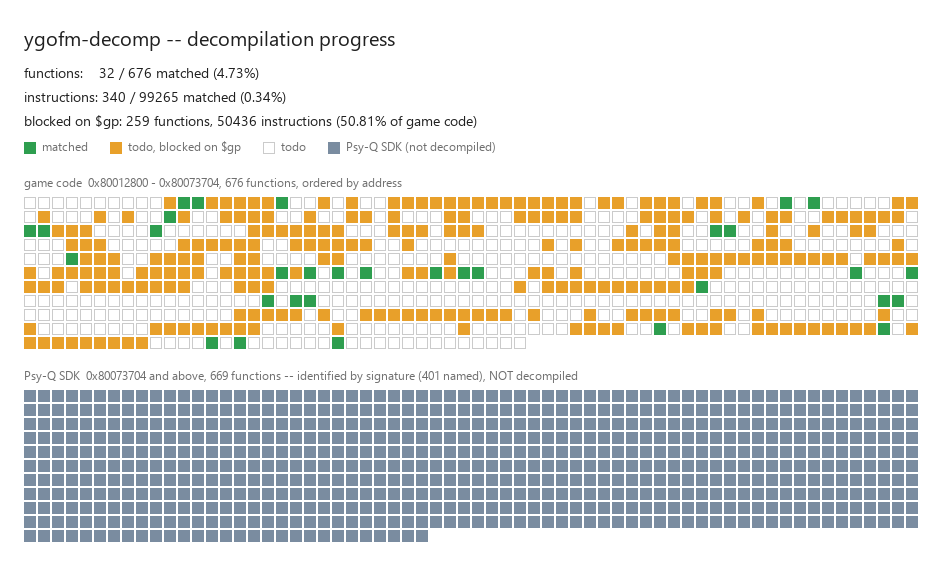
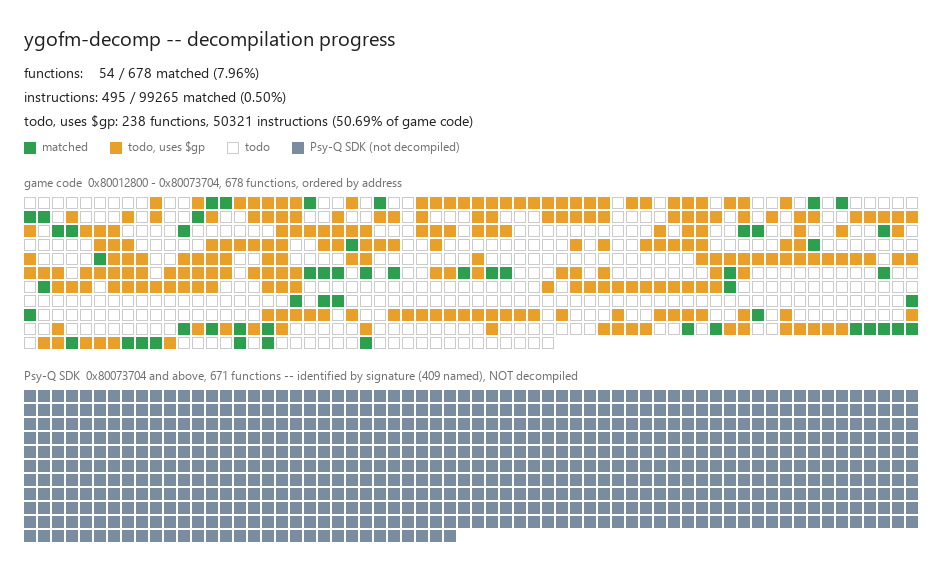
Automate $gp handling: 54 functions from C, still byte-identical
autodecomp rewrites m2c's undeclared saved_reg_gp into a real extern at
gp+offset and tries both assembler -G values, keeping whichever reproduces the
bytes. 54 matched over 436 candidates, 22 needing as_G 8. Executable and full
disc image both still byte-identical; boot from the in-duel state passes.

Also fixes symbol resolution: decompiled C references names the disassembly
never had, since a gp-relative access appears there only as 0x170($gp). Now
reads each object's undefined-symbol table rather than scanning assembly text.

Relabels the progress map's $gp category from 'blocked' to 'uses $gp' -- it
described a constraint that no longer exists.

diff --git a/tools/progress_map.py b/tools/progress_map.py
@@ -6,8 +6,10 @@ instructions, which is the honest measure of how much of the game is done.
 
 Cells are laid out strictly by address, so a given function keeps the same
 cell across runs and two maps can be diffed by eye.  $gp users get their own
-colour: they are not hard, they are blocked until the small-data layout is
-reconstructed, and lumping them in with plain TODO hides that.
+colour because they need extra handling -- the assembler run with -G8, and
+m2c's undeclared `saved_reg_gp` rewritten into a real extern at gp+offset.
+They are no longer *blocked*, as they were when this tool was written; the
+distinction is kept because it still predicts which functions need that path.
 
     py -3 tools/progress_map.py
     py -3 tools/progress_map.py --cell 8 --cols 96 --out docs/progress.png
@@ -155,11 +157,11 @@ def main():
 
     print("game functions:    %d total" % len(game))
     print("  matched:         %d (%.2f%%)" % (n_matched, pct(n_matched, len(game))))
-    print("  blocked on $gp:  %d (%.2f%%)" % (n_gp, pct(n_gp, len(game))))
+    print("  todo, uses $gp:  %d (%.2f%%)" % (n_gp, pct(n_gp, len(game))))
     print("  todo:            %d (%.2f%%)" % (n_todo, pct(n_todo, len(game))))
     print("game instructions: %d total" % ins_total)
     print("  matched:         %d (%.2f%%)" % (ins_matched, pct(ins_matched, ins_total)))
-    print("  blocked on $gp:  %d (%.2f%%)" % (ins_gp, pct(ins_gp, ins_total)))
+    print("  todo, uses $gp:  %d (%.2f%%)" % (ins_gp, pct(ins_gp, ins_total)))
     print("sdk functions:     %d (%d identified by signature, none decompiled)"
           % (len(sdk), named))
 
@@ -173,11 +175,11 @@ def main():
         % (n_matched, len(game), pct(n_matched, len(game))),
         "instructions: %d / %d matched (%.2f%%)"
         % (ins_matched, ins_total, pct(ins_matched, ins_total)),
-        "blocked on $gp: %d functions, %d instructions (%.2f%% of game code)"
+        "todo, uses $gp: %d functions, %d instructions (%.2f%% of game code)"
         % (n_gp, ins_gp, pct(ins_gp, ins_total)),
     ]
     legend = [(C_MATCHED, C_MATCHED, "matched"),
-              (C_GP, C_GP, "todo, blocked on $gp"),
+              (C_GP, C_GP, "todo, uses $gp"),
               (C_TODO, C_TODO_E, "todo")]
     if not args.no_sdk:
         legend.append((C_SDK, C_SDK, "Psy-Q SDK (not decompiled)"))

diff --git a/tools/build.py b/tools/build.py
@@ -9,6 +9,7 @@ louder and earlier failure than a hash mismatch at the end.
 Exit code 0 only when the rebuilt file is byte-identical to the original.
 """
 import hashlib
+import io
 import json
 import os
 import re
@@ -18,6 +19,8 @@ import sys
 sys.path.insert(0, os.path.dirname(os.path.abspath(__file__)))
 import match
 import split_asm
+from elftools.elf.elffile import ELFFile
+from elftools.elf.sections import SymbolTableSection
 
 REPO = os.path.dirname(os.path.dirname(os.path.abspath(__file__)))
 BIN = os.path.join(REPO, "tools", "bin", "bin")
@@ -157,6 +160,26 @@ def main():
                 defined.add(m.group(1))
             for name, addr in sym_ref.findall(line):
                 referenced[name] = int(addr, 16)
+
+    # Decompiled C introduces references the disassembly never had: a
+    # gp-relative access appears in the asm only as `0x170($gp)`, but in C it
+    # becomes a named extern, so the name exists nowhere to be scanned for.
+    # Read the objects' own undefined symbols instead of guessing from text.
+    addr_name = re.compile(r"^(?:D|func|jtbl|jpt|B)_([0-9A-F]{6,8})$")
+    for _, obj, _ in c_objs:
+        try:
+            elf = ELFFile(io.BytesIO(open(obj, "rb").read()))
+        except Exception:
+            continue
+        for sec in elf.iter_sections():
+            if not isinstance(sec, SymbolTableSection):
+                continue
+            for sym in sec.iter_symbols():
+                if sym["st_shndx"] != "SHN_UNDEF" or not sym.name:
+                    continue
+                m = addr_name.match(sym.name)
+                if m:
+                    referenced[sym.name] = int(m.group(1), 16)
 
     missing = {k: v for k, v in referenced.items() if k not in defined}
     syms_ld = os.path.join(BUILD, "syms.ld")

diff --git a/src/auto/func_800438B8.c b/src/auto/func_800438B8.c
@@ -1,0 +1,36 @@
+#include "types.h"
+#include "m2c_macros.h"
+
+M2C_UNK func_80012D4C();                            /* static */
+extern s32 D_8009B0F4;
+extern s32 D_8009B134;
+extern u16 D_8009B398;
+
+void func_800438B8(s32 arg0) {
+    s32 var_s0;
+    s32 var_s1;
+
+    var_s0 = arg0;
+    var_s1 = 0;
+    do {
+loop_1:
+        func_80012D4C();
+        if ((var_s1 == 0) && (((D_8009B0F4 & 0x02000030) | D_8009B134) == 0)) {
+            var_s1 = 1;
+        }
+        if (D_8009B398 & 0x8C0) {
+            var_s0 -= 1;
+            if (var_s1 != 0) {
+                var_s0 = 0;
+                goto block_7;
+            }
+        } else {
+block_7:
+            var_s0 -= 1;
+        }
+        if (var_s0 >= 0) {
+            goto loop_1;
+        }
+        var_s0 = 0;
+    } while (var_s1 == 0);
+}

diff --git a/PLAN.md b/PLAN.md
@@ -632,3 +632,39 @@ the program correctly.
 6. **Maintenance asymmetry** — a symbol file and deterministic asm, versus an SDK
    provisioning step, version checks, a link-order search, and a failure mode
    that surfaces only as a hash mismatch.
+
+### 2026-07-24 — $gp automated; 54 functions from C
+
+`tools/autodecomp.py` now rewrites m2c's undeclared `saved_reg_gp` into a real
+extern at `gp + offset` (since `$gp` is a known constant) and tries both
+assembler `-G` values, keeping whichever reproduces the bytes. Over all 436
+candidates up to 80 instructions:
+
+| outcome | count |
+|---|---|
+| size-differs | 229 |
+| compile-failed | 69 |
+| **match** | **54** |
+| differs | 44 |
+| gp-unhandled | 32 |
+| m2c-failed | 8 |
+
+**54 functions build from C (up from 32), 22 of them needing `as_G 8`**, and both
+the executable and the full disc image remain byte-identical. Boot from the
+in-duel save state still passes.
+
+One more fix this forced: decompiled C introduces symbol references the
+disassembly never contained. A gp-relative access appears in the asm only as
+`0x170($gp)`, so scanning assembly text for names could never find `D_8009B078`.
+Symbol resolution now reads each object's own undefined-symbol table instead of
+inferring names from text.
+
+Progress, both metrics:
+
+```
+game functions:    678    matched  54  (7.96%)
+game instructions: 99265  matched 495  (0.50%)
+```
+
+The gap between 7.96% and 0.50% is the point made in the size-distribution entry
+above: what is matched so far is almost entirely the small end of the binary.
